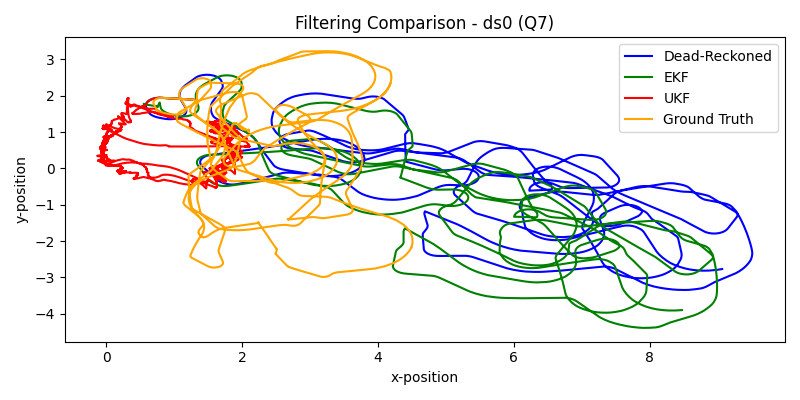
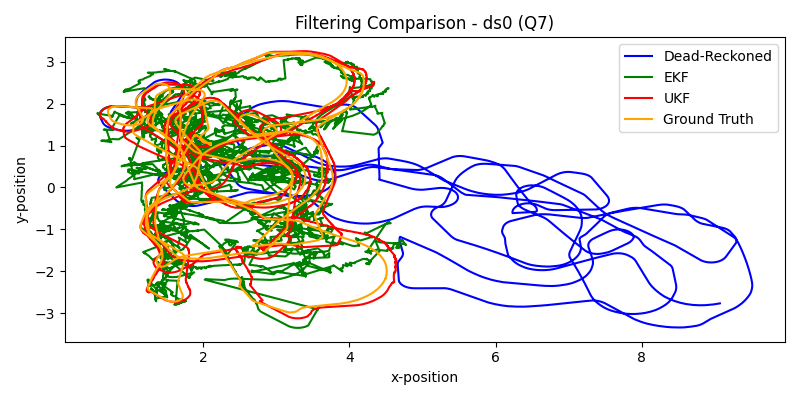
Fixed measurement issue

diff --git a/filters.py b/filters.py
@@ -125,26 +125,36 @@ def extended_kalman(u_traj,
         sigt_bar = (Gt @ sigt @ Gt.T) + R       # Variance prediction
 
         # Check if a new measurement has been made
-        if z_index < z_traj.shape[0] and t >= z_traj[z_index, 0] and subject_dict[z_traj[z_index, 1]] >= 6:  # Subjects 1-5 are other robots?
-            # Get actual measurement
-            zt_bar, l = measurement_model(mut_bar, landmarks, subject_dict[z_traj[z_index, 1]])
-            zt = z_traj[z_index, 2:]
+        updated = False
+        if z_index < z_traj.shape[0] and t >= z_traj[z_index, 0]:  
+            init_z_time = z_traj[z_index, 0]
 
-            # Compute Kalman gain
-            Ht = H(mut_bar, zt_bar, l, h)
-            Kt = (sigt_bar @ Ht.T) @ np.linalg.inv((Ht @ sigt_bar @ Ht.T) + Q)
-        
-            # Update prediction with measurement
-            z_diff = zt - zt_bar
-            z_diff[1] = normalize_angle(z_diff[1])
-            mut = mut_bar + Kt @ (z_diff)
-            sigt = (np.eye(3) - Kt @ Ht) @ sigt_bar
+            # Update based on all measurements at this timestep
+            while z_index < z_traj.shape[0] and z_traj[z_index, 0] == init_z_time:
+                if not subject_dict[z_traj[z_index, 1]] >= 6:  # Subjects 1-5 are other robots?
+                    z_index += 1
+                    continue
+                # Get actual measurement
+                zt = z_traj[z_index, 2:]
+                zt_bar, l = measurement_model(mut_bar, landmarks, subject_dict[z_traj[z_index, 1]])
 
-            z_index += 1 
-        else:
-            # No measurement to update, save raw prediction
+                # Compute Kalman gain
+                Ht = H(mut_bar, zt_bar, l, h)
+                Kt = (sigt_bar @ Ht.T) @ np.linalg.inv((Ht @ sigt_bar @ Ht.T) + Q)
+            
+                # Update prediction with measurement
+                z_diff = zt - zt_bar
+                z_diff[1] = normalize_angle(z_diff[1])
+                mut = mut_bar + Kt @ (z_diff)
+                sigt = (np.eye(3) - Kt @ Ht) @ sigt_bar
+
+                updated = True
+                z_index += 1 
+        # No measurement to update, save raw prediction
+        if not updated:
             mut = mut_bar
             sigt = sigt_bar
+            new_meas = False
 
         mut[2] = normalize_angle(mut[2])
         prev_u_time = t
@@ -274,53 +284,63 @@ def unscented_kalman(u_traj,
             sigt_bar += weights_c[j]*np.outer(yj - mut_bar, yj - mut_bar)
 
         # Check if a new measurement has been made
-        # TODO: Check all measurements at a given timestep, some have multiple measurements at a time
-        if z_index < z_traj.shape[0] and t >= z_traj[z_index, 0] and subject_dict[z_traj[z_index, 1]] >= 6:  # Subjects 1-5 are other robots?
-            # Get actual measurement
-            subj = subject_dict[z_traj[z_index, 1]]
-            zt = z_traj[z_index, 2:]
+        updated = False
+        if z_index < z_traj.shape[0] and t >= z_traj[z_index, 0]:  
+            init_z_time = z_traj[z_index, 0]
 
-            # Make augmented state vector and covariance from prediction
-            if aug:
-                mut_bar_aug = np.hstack([mut_bar, np.zeros(n_states)])
-                sigt_bar_aug = np.block([
-                    [sigt_bar, np.zeros((n_states,n_states))],
-                    [np.zeros((n_states,n_states)),        Q]
-                ])
-            else:
-                mut_bar_aug = mut_bar
-                sigt_bar_aug = sigt_bar
-           
-            # Redraw sigma points from prediction
-            Xt_bar = sample_sigma(mut_bar_aug, sigt_bar_aug)
+            # Update based on all measurements at this timestep
+            while z_index < z_traj.shape[0] and z_traj[z_index, 0] == init_z_time:
+                if not subject_dict[z_traj[z_index, 1]] >= 6:  # Subjects 1-5 are other robots?
+                    z_index += 1
+                    continue
+                # Get actual measurement
+                subj = subject_dict[z_traj[z_index, 1]]
+                zt = z_traj[z_index, 2:]
 
-            # Pass new sigma points through measurment model
-            Zt = np.zeros((Xt_bar.shape[0], zt.shape[0]))
-            for j, xj_bar in enumerate(Xt_bar):
-                zj_bar, l = measurement_model(xj_bar[:3], landmarks, subj, w=xj_bar[3:])
-                Zt[j] = zj_bar
+                # Make augmented state vector and covariance from prediction
+                if aug:
+                    mut_bar_aug = np.hstack([mut_bar, np.zeros(n_states)])
+                    sigt_bar_aug = np.block([
+                        [sigt_bar, np.zeros((n_states,n_states))],
+                        [np.zeros((n_states,n_states)),        Q]
+                    ])
+                else:
+                    mut_bar_aug = mut_bar
+                    sigt_bar_aug = sigt_bar
+            
+                # Redraw sigma points from prediction
+                Xt_bar = sample_sigma(mut_bar_aug, sigt_bar_aug)
 
-            # Compute Gaussian statistics from transformed points
-            zt_bar = weights_m @ Zt
-            sigt_xz = np.zeros((Yt.shape[1], Zt.shape[1]))
-            sigt_zz = np.zeros((Zt.shape[1], Zt.shape[1]))
-            if not aug: sigt_zz += Q    # Approximate noise if not using augmented
-            for j in range(Zt.shape[0]):
-                zj = Zt[j]
-                yj = Yt[j]
-                sigt_xz += weights_c[j]*np.outer(yj - mut_bar, zj - zt_bar)
-                sigt_zz += weights_c[j]*np.outer(zj - zt_bar, zj - zt_bar)
+                # Pass new sigma points through measurment model
+                Zt = np.zeros((Xt_bar.shape[0], zt.shape[0]))
+                for j, xj_bar in enumerate(Xt_bar):
+                    zj_bar, l = measurement_model(xj_bar[:3], landmarks, subj, w=xj_bar[3:])
+                    Zt[j] = zj_bar
 
-            # Incorporate measurement Gaussian into prediction to get posterior
-            Kt = sigt_xz @ np.linalg.inv(sigt_zz)   # Kalman gain
-            z_diff = zt - zt_bar
-            z_diff[1] = normalize_angle(z_diff[1])
-            mut = mut_bar + Kt @ (z_diff)
-            sigt = sigt_bar - Kt @ sigt_zz @ Kt.T
-            # sigt = sigt_bar - Kt @ sigt_xz.T
+                # Compute Gaussian statistics from transformed points
+                zt_bar = weights_m @ Zt
+                sigt_xz = np.zeros((Yt.shape[1], Zt.shape[1]))
+                sigt_zz = np.zeros((Zt.shape[1], Zt.shape[1]))
+                if not aug: sigt_zz += Q    # Approximate noise if not using augmented
+                for j in range(Zt.shape[0]):
+                    zj = Zt[j]
+                    yj = Yt[j]
+                    sigt_xz += weights_c[j]*np.outer(yj - mut_bar, zj - zt_bar)
+                    sigt_zz += weights_c[j]*np.outer(zj - zt_bar, zj - zt_bar)
+
+                # Incorporate measurement Gaussian into prediction to get posterior
+                Kt = sigt_xz @ np.linalg.inv(sigt_zz)   # Kalman gain
+                z_diff = zt - zt_bar
+                z_diff[1] = normalize_angle(z_diff[1])
+                mut = mut_bar + Kt @ (z_diff)
+                sigt = sigt_bar - Kt @ sigt_zz @ Kt.T
+                # sigt = sigt_bar - Kt @ sigt_xz.T
+                
+                updated = True
+                z_index += 1
         
-        else:
-            # No measurement to update, save raw prediction
+        # No measurement to update, save raw prediction
+        if not updated:
             mut = mut_bar
             sigt = sigt_bar
 
